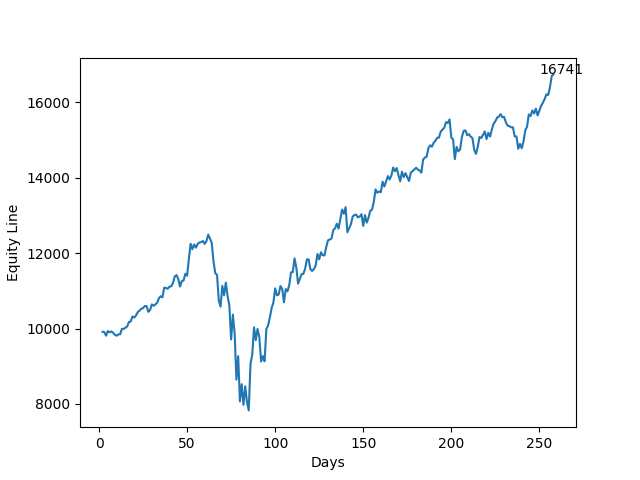
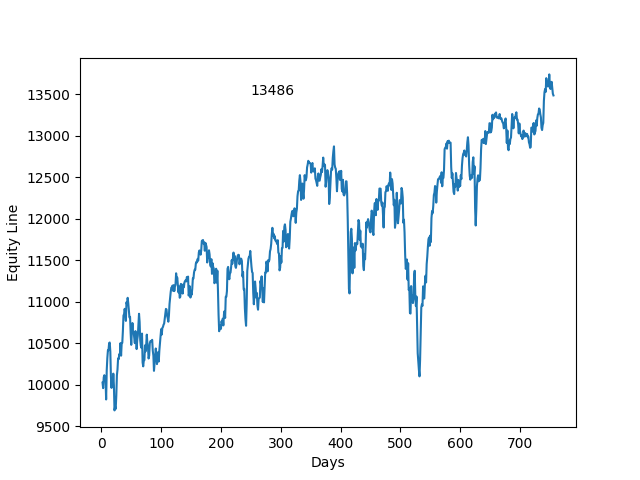
update

diff --git a/server/stock.py b/server/stock.py
@@ -22,8 +22,8 @@ class Stock:
         #self.weights = np.array([0.1,0.1,0.1,0.1,0.1,0.1,0.1,0.1,0.1,0.1])
         self.tickers = ['ACN', 'TSLA', 'EZJ', 'BLK','IBM','VGT']
         self.weights = np.array([1/6, 1/6, 1/6, 1/6, 1/6, 1/6])
-        #self.tickers = ['AMZN', 'TRI', 'VGT', 'TSLA']
-        #self.weights = np.array([0.25,0.25,0.25,0.25])
+        #self.tickers = ['FCAU', 'HSBC', 'JUVE.MI', 'FB', 'AAPL', 'AMZN']
+        #self.weights = np.array([1/6, 1/6, 1/6, 1/6, 1/6, 1/6])
         self.mydata = portfolio(self.tickers)
         self.sp500, self.yr_10 = SP500()
 

diff --git a/server/Stock_Functions.py b/server/Stock_Functions.py
@@ -9,7 +9,7 @@ def portfolio(tickers):
     print('Downloading data....')
     mydata = pd.DataFrame()
     for t in tickers:
-        mydata[t]= wb.DataReader(t,data_source='yahoo', start='2019-11-19')['Adj Close']
+        mydata[t]= wb.DataReader(t,data_source='yahoo', start='2014-01-01', end='2016-12-30')['Adj Close']
     return mydata    
     
 def SP500():
